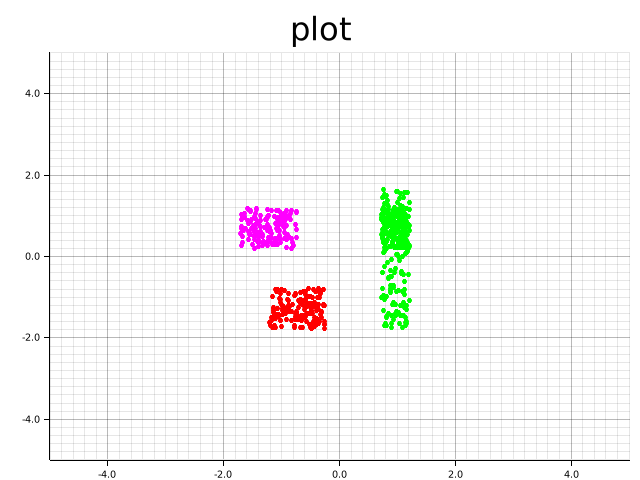
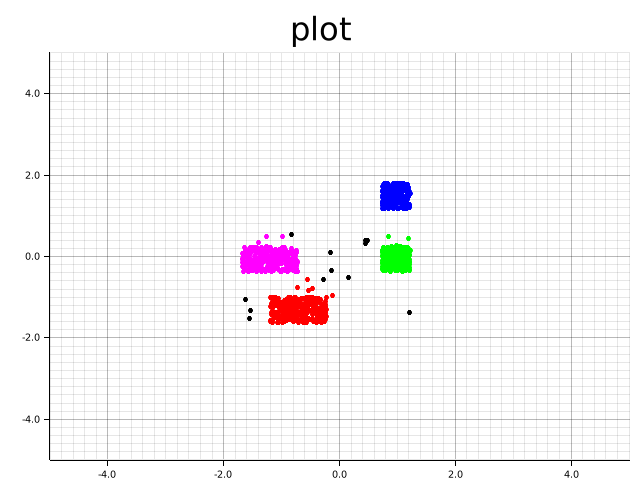
some small chnages

Changed region(s): [[0.375, 0.4062, 0.5312, 0.6875], [0.5625, 0.375, 0.6562, 0.6875]]

diff --git a/src/main.rs b/src/main.rs
@@ -14,38 +14,17 @@ pub mod utils;
 pub mod plots;
 
 fn main() {
-    // need to cluster data somehow... Also need a plot...
-    //let size = 1000;
-    //let dim = 2;
-    //let bias = 42.0;
-    //let weight = 2.0;
-    //let x = x_data_gen(size, dim);
-    //let y = get_y_data(x.clone(), &weight, &bias);
-    let cluster_size = 150;
+    let cluster_size = 300;
     let noise_intensity = 0;
+    let num_clusters = 4;
 
-    
-    let square_1: Array2<f32> = create_square(vec![1.0, 3.0], vec![2.0, 4.0], cluster_size, 2); // Cluster 1
-    let square_2: Array2<f32> = create_square(vec![5.0, 7.0], vec![1.0, 3.0], cluster_size, 2); // Cluster 2
-    let square_3: Array2<f32> = create_square(vec![5.0, 7.0], vec![6.0, 7.0], cluster_size, 2); // Cluster 3
-    let square_4: Array2<f32> = create_square(vec![1.0, 8.0], vec![6.0, 7.0], cluster_size + noise_intensity, 2); // A bunch of noise across them all
-
-    let mut data: Array2<f32> = ndarray::concatenate(
-        Axis(0),
-        &[
-            square_1.view(),
-            square_2.view(),
-            square_3.view(),
-            square_4.view(),
-        ],
-    )
-    .expect("An error occurred while stacking the dataset");
+    let mut data = get_data(noise_intensity, num_clusters, cluster_size);
 
     center_scale(&mut data);
     
     let mut model = DBScan {
-        min_points: 1,
-        epsilon: 50e-2,
+        min_points: 20,
+        epsilon: 15e-2,
         is_in_cluster: HashSet::new(),
         is_visited: HashSet::new(),
         is_noise: HashSet::new(),
@@ -55,14 +34,14 @@ fn main() {
     
     /* 
     let mut model = AgglomerativeCluster {
-        centers: 4,
+        centers: num_clusters,
         clusters: vec![vec![array![0.0]]]
     };
     */
 
     /*
     let mut model = Kmeans  {
-        centers: 4,
+        centers: num_clusters,
         accept: 0.7,
         max_centers: 7,
         initializer: "kmeans++",
@@ -86,21 +65,25 @@ fn main() {
 
 }
 
-fn x_data_gen(size: usize, dim: usize) -> Array2<f64> {
-    let mut data = Array::<f64, _>::ones((size, dim));
-    let mut index_1 = 0.0;
 
-    for mut col in data.columns_mut() {
-        let mut index = 0.0;
-        for num in col.iter_mut() {
-            *num = index * *num - index_1 * (*num);
-            index += 1.0;
-        }
-        index_1 += 1.0;
-    }
+fn get_data(noise_intensity: usize, num_clusters: i32, cluster_size: usize) -> Array2<f32> {
+    let square_1: Array2<f32> = create_square(vec![1.0, 3.0], vec![2.0, 4.0], cluster_size, 2); // Cluster 1
+    let square_2: Array2<f32> = create_square(vec![5.0, 7.0], vec![1.0, 3.0], cluster_size, 2); // Cluster 2
+    let square_3: Array2<f32> = create_square(vec![5.0, 7.0], vec![6.0, 7.0], cluster_size, 2); // Cluster 3
+    let square_4: Array2<f32> = create_square(vec![10.0, 12.0], vec![6.0, 7.0], cluster_size, 2);
+    let square_5: Array2<f32> = create_square(vec![1.0, 8.0], vec![1.0, 7.0], cluster_size / 10 + noise_intensity, 2); // A bunch of noise across them all
+
+    let data: Array2<f32> = ndarray::concatenate(
+        Axis(0),
+        &[
+            square_1.view(),
+            square_2.view(),
+            square_3.view(),
+            square_4.view(),
+            square_5.view()
+        ],
+    )
+    .expect("An error occurred while stacking the dataset");
+
     return data;
-}
-
-fn get_y_data(x: Array2<f64>, weight: &f64, bias: &f64) -> Array2<f64> {
-    return x * *weight + *bias;
 }

diff --git a/src/cluster_algos/lloyd.rs b/src/cluster_algos/lloyd.rs
@@ -43,18 +43,8 @@ impl Kmeans {
                 while check_if_finished(&self.centroids - last_centroids.clone()) && count < self.max_iter {
                     count += 1;
                     last_centroids = self.centroids.clone();
-                    //print_vec(&self.partition);
-                    //println!("pre");
-                    //print_array(&self.centroids);
-                    //println!("pre");
                     self.update_partitions(data);
                     self.update_centroids(data);
-                    //print_vec(&self.partition);
-                    //println!("post");
-                    //print_array(&self.centroids);
-                    //println!("post");
-                    //assert!(count < 3);
-                    //print_array(&self.centroids);
                 }
                 let score = silhouette_score(data.clone(), self.partition.clone(), self.centroids.clone());
                 if score > minimum {
@@ -131,16 +121,7 @@ impl Kmeans {
             println!("{str} i");
             */
             for (j, centroid) in self.centroids.rows().into_iter().enumerate() {
-                /*
-                print_array1d(&centroid.to_owned());
-                str = j.to_string();
-                println!("{str} j");*/
-                let dist = l2(&point.to_owned(), &centroid.to_owned(), false);/*
-                let str = dist.to_string();
-                let str2 = j.to_string();
-                let str3 = i.to_string();
-                println!("{str} {str2} {str3} j i");
-                */
+                let dist = l2(&point.to_owned(), &centroid.to_owned(), false);
                 if dist <= min {
                     min = dist;
                     best_centroid = j;

diff --git a/src/cluster_algos/dbscan.rs b/src/cluster_algos/dbscan.rs
@@ -16,7 +16,8 @@ pub struct DBScan {
 
 impl DBScan {
     fn initialize(&mut self, data: &Array2<f32>) {
-        self.partitions = vec![9; data.shape()[0]];
+        self.partitions = vec![0; data.shape()[0]];
+        self.current_clusters = 1;
     }
 
     pub fn fit_predict(&mut self, data: &Array2<f32>) -> Vec<i32> {
@@ -71,4 +72,5 @@ impl DBScan {
         }
         return neighbours;
     }
+
 }
